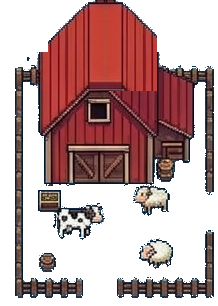
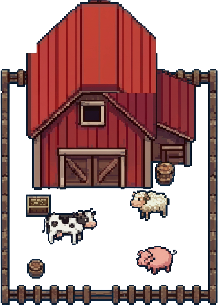
Close barn fence and solid farm collision

diff --git a/src/lib/village.ts b/src/lib/village.ts
@@ -110,7 +110,8 @@ export const BUILDINGS: BuildingSpot[] = [
   { id: "chapel", x: 1820, y: 390, sheet: "a", crop: [485, 80, 180, 225], width: 150, height: 188, collider: [-58, -55, 116, 75] },
   { id: "hall", x: 1280, y: 720, sheet: "a", crop: [330, 330, 240, 255], width: 210, height: 223, collider: [-82, -62, 164, 88] },
   { id: "shop", x: 1980, y: 760, sheet: "a", crop: [610, 335, 230, 245], width: 205, height: 218, collider: [-82, -55, 164, 78] },
-  { id: "barn", x: 410, y: 1400, sheet: "barn", crop: [0, 0, 218, 306], width: 205, height: 288, collider: [-65, -223, 130, 145], extraColliders: [[-89, -195, 9, 206], [86, -193, 9, 118], [-88, 8, 63, 8], [24, 8, 69, 8]] },
+  // The farm is fully fenced in, so the whole paddock is solid ground for the player.
+  { id: "barn", x: 410, y: 1400, sheet: "barn", crop: [0, 0, 218, 306], width: 205, height: 288, collider: [-100, -250, 200, 266] },
   { id: "windmill", x: 2240, y: 760, sheet: "house-windmill", crop: [0, 0, 210, 350], width: 190, height: 317, collider: [-27, -72, 58, 86], extraColliders: [[-86, -145, 124, 38], [52, -141, 20, 42]] },
   { id: "market", x: 800, y: 770, sheet: "b", crop: [240, 340, 205, 190], width: 180, height: 167, collider: [-72, -45, 144, 65] },
   { id: "clock", x: 740, y: 1160, sheet: "b", crop: [20, 600, 190, 245], width: 175, height: 226, collider: [-70, -55, 140, 80] },

diff --git a/src/components/VillageCanvas.tsx b/src/components/VillageCanvas.tsx
@@ -827,7 +827,7 @@ export default function VillageCanvas({ characterTier, houseTier, moveRef, onNea
         ctx.lineTo(1300, 960);
         ctx.moveTo(2020, 430);
         ctx.lineTo(1300, 960);
-        ctx.moveTo(410, 1400);
+        ctx.moveTo(560, 1325);
         ctx.lineTo(1300, 960);
         ctx.moveTo(2050, 1370);
         ctx.lineTo(1300, 960);
